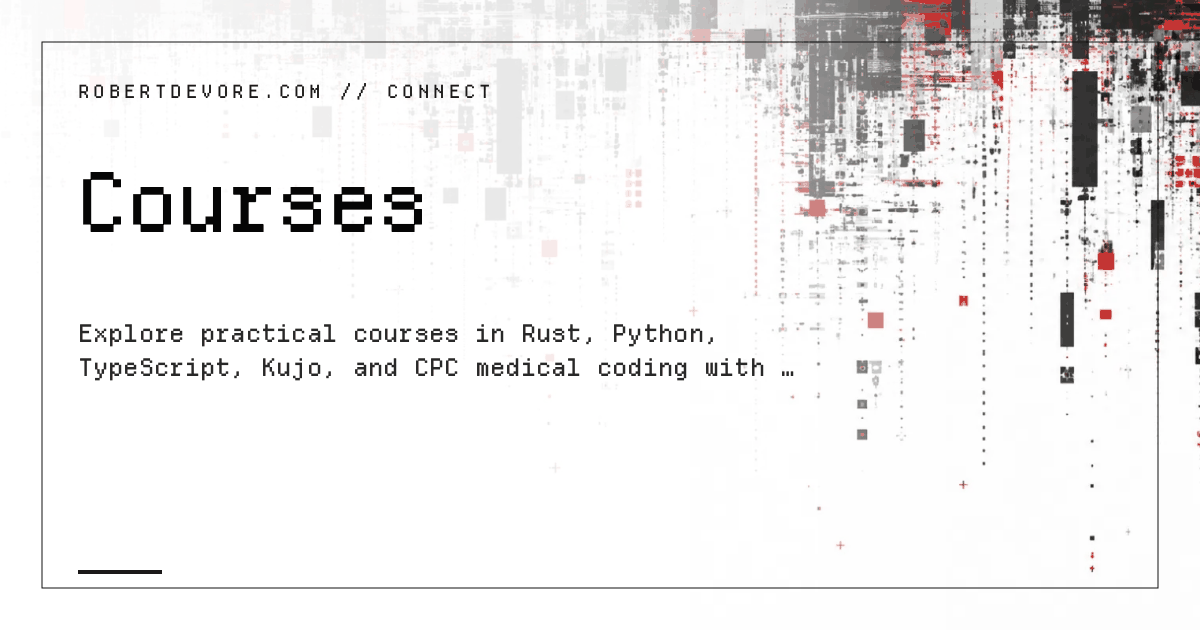
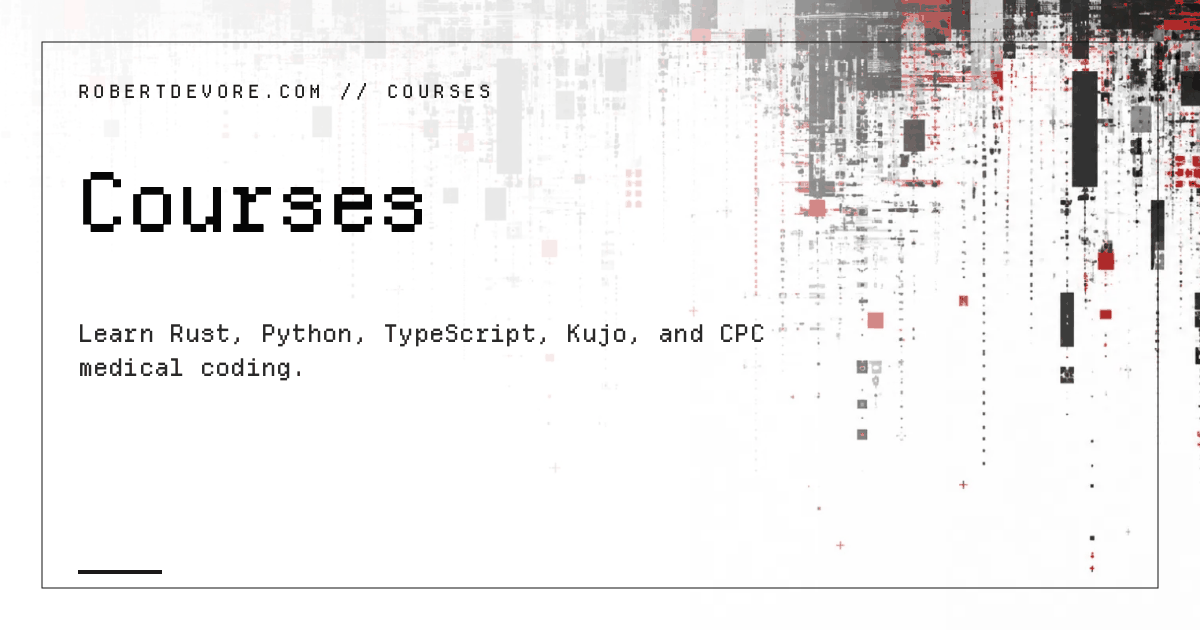
fix: describe course catalog accurately in schema and social previews

diff --git a/scripts/validate_site.py b/scripts/validate_site.py
@@ -100,6 +100,27 @@ for path in html_files:
                 if target.startswith(("/wp-content/", "/recommends/")): warnings.append(f"{rel}: retained historical external path {target}")
                 else: warnings.append(f"{rel}: missing historical internal target {target}")
 
+    if rel.as_posix() == "courses/index.html":
+        graph = [node for script in soup.select('script[type="application/ld+json"]')
+                 for node in json.loads(script.string or "{}").get("@graph", [])]
+        catalog = next((node for node in graph if node.get("@type") == "CollectionPage"), {})
+        listing = catalog.get("mainEntity", {})
+        items = listing.get("itemListElement", [])
+        cards = soup.select(".course-card")
+        if not cards or listing.get("@type") != "ItemList" or listing.get("numberOfItems") != len(cards) or len(items) != len(cards):
+            errors.append(f"{rel}: course collection schema must match the visible catalog")
+        for position, (item, card) in enumerate(zip(items, cards), start=1):
+            course = item.get("item", {})
+            link = card.select_one(".sk-card__actions a[href]")
+            heading = card.select_one("h3")
+            description_node = card.select_one(".course-card__description")
+            if (item.get("position") != position or course.get("@type") != "Course"
+                or not link or not heading or not description_node
+                or course.get("url") != link["href"]
+                or course.get("name") != heading.get_text(" ", strip=True)
+                or course.get("description") != description_node.get_text(" ", strip=True)):
+                errors.append(f"{rel}: structured course {position} differs from visible content")
+
     article_content = soup.select_one(".article-content")
     if article_content:
         previous_level = 1
@@ -138,7 +159,7 @@ for path in sorted(root.rglob("*.css")):
         if not target.is_relative_to(root) or not target.exists():
             errors.append(f"{rel}: missing CSS asset {url}")
 
-required = ["index.html", "blog/index.html", "blog/page/2/index.html", "about/index.html", "contact/index.html", "projects/index.html", "category/developer-tools/index.html", "tag/engineering/index.html", "404.html", "feed/index.xml", "sitemap.xml", "robots.txt", "llms.txt"]
+required = ["index.html", "blog/index.html", "blog/page/2/index.html", "about/index.html", "contact/index.html", "projects/index.html", "courses/index.html", "category/developer-tools/index.html", "tag/engineering/index.html", "404.html", "feed/index.xml", "sitemap.xml", "robots.txt", "llms.txt"]
 for item in required:
     if not (root / item).exists(): errors.append(f"missing required output: {item}")
 if (root / "page").exists(): errors.append("duplicate root pagination routes remain in generated output")

diff --git a/scripts/harden_generated_output.py b/scripts/harden_generated_output.py
@@ -42,7 +42,7 @@ def page_type_for(route: str) -> str:
         return "AboutPage"
     if route == "/contact/":
         return "ContactPage"
-    if route == "/blog/" or route.startswith(("/blog/page/", "/category/", "/tag/")) or route == "/projects/":
+    if route == "/blog/" or route.startswith(("/blog/page/", "/category/", "/tag/")) or route in {"/projects/", "/courses/"}:
         return "CollectionPage"
     if route.startswith("/projects/"):
         return "SoftwareSourceCode"
@@ -141,6 +141,29 @@ def structured_data(soup: BeautifulSoup, route: str) -> dict:
         published = meta_content(soup, 'meta[property="article:published_time"]')
         if published:
             page["datePublished"] = published
+    elif route == "/courses/":
+        items = []
+        for position, card in enumerate(soup.select(".course-card"), start=1):
+            heading = card.select_one("h3")
+            link = card.select_one(".sk-card__actions a[href]")
+            description_node = card.select_one(".course-card__description")
+            if not heading or not link or not description_node:
+                raise ValueError("Course card is missing its heading, link, or description")
+            items.append({
+                "@type": "ListItem",
+                "position": position,
+                "item": {
+                    "@type": "Course",
+                    "name": heading.get_text(" ", strip=True),
+                    "description": description_node.get_text(" ", strip=True),
+                    "url": urljoin(canonical, link["href"]),
+                },
+            })
+        page["mainEntity"] = {
+            "@type": "ItemList",
+            "numberOfItems": len(items),
+            "itemListElement": items,
+        }
     elif page_type == "SoftwareSourceCode":
         page["author"] = {"@id": person_id}
         repository = soup.select_one('.project-landing a[href^="https://github.com/"]')

diff --git a/scripts/sync_howl_manifest.py b/scripts/sync_howl_manifest.py
@@ -22,6 +22,9 @@ BACKGROUNDS = {
 SPECIAL_BACKGROUNDS = {
     "forever-forward": "assets/social/forever-forward-background.webp",
 }
+SPECIAL_TAGLINES = {
+    "courses": "Learn Rust, Python, TypeScript, Kujo, and CPC medical coding.",
+}
 SPECIAL_LABELS = {
     "forever-forward": "THE JIDOKA FILES",
 }
@@ -121,7 +124,7 @@ def content_card(path: Path, kind: str) -> dict[str, object]:
     meta = frontmatter(path)
     slug = text(meta, "custom_url", path.stem)
     title = text(meta, "title")
-    tagline = text(meta, "description", text(meta, "excerpt"))
+    tagline = SPECIAL_TAGLINES.get(slug, text(meta, "description", text(meta, "excerpt")))
     template = text(meta, "template", "signal-a")
     background = SPECIAL_BACKGROUNDS.get(slug, BACKGROUNDS.get(template, BACKGROUNDS["signal-a"]))
     relative = path.relative_to(ROOT).as_posix()
@@ -135,7 +138,7 @@ def content_card(path: Path, kind: str) -> dict[str, object]:
         card_id = slug
     elif kind == "page":
         route = f"/{slug}/"
-        label = "PROFILE" if slug == "about" else "CONNECT"
+        label = {"about": "PROFILE", "courses": "COURSES"}.get(slug, "CONNECT")
         concepts = [slug, "Robert DeVore"]
         card_id = slug
     elif kind == "project":
